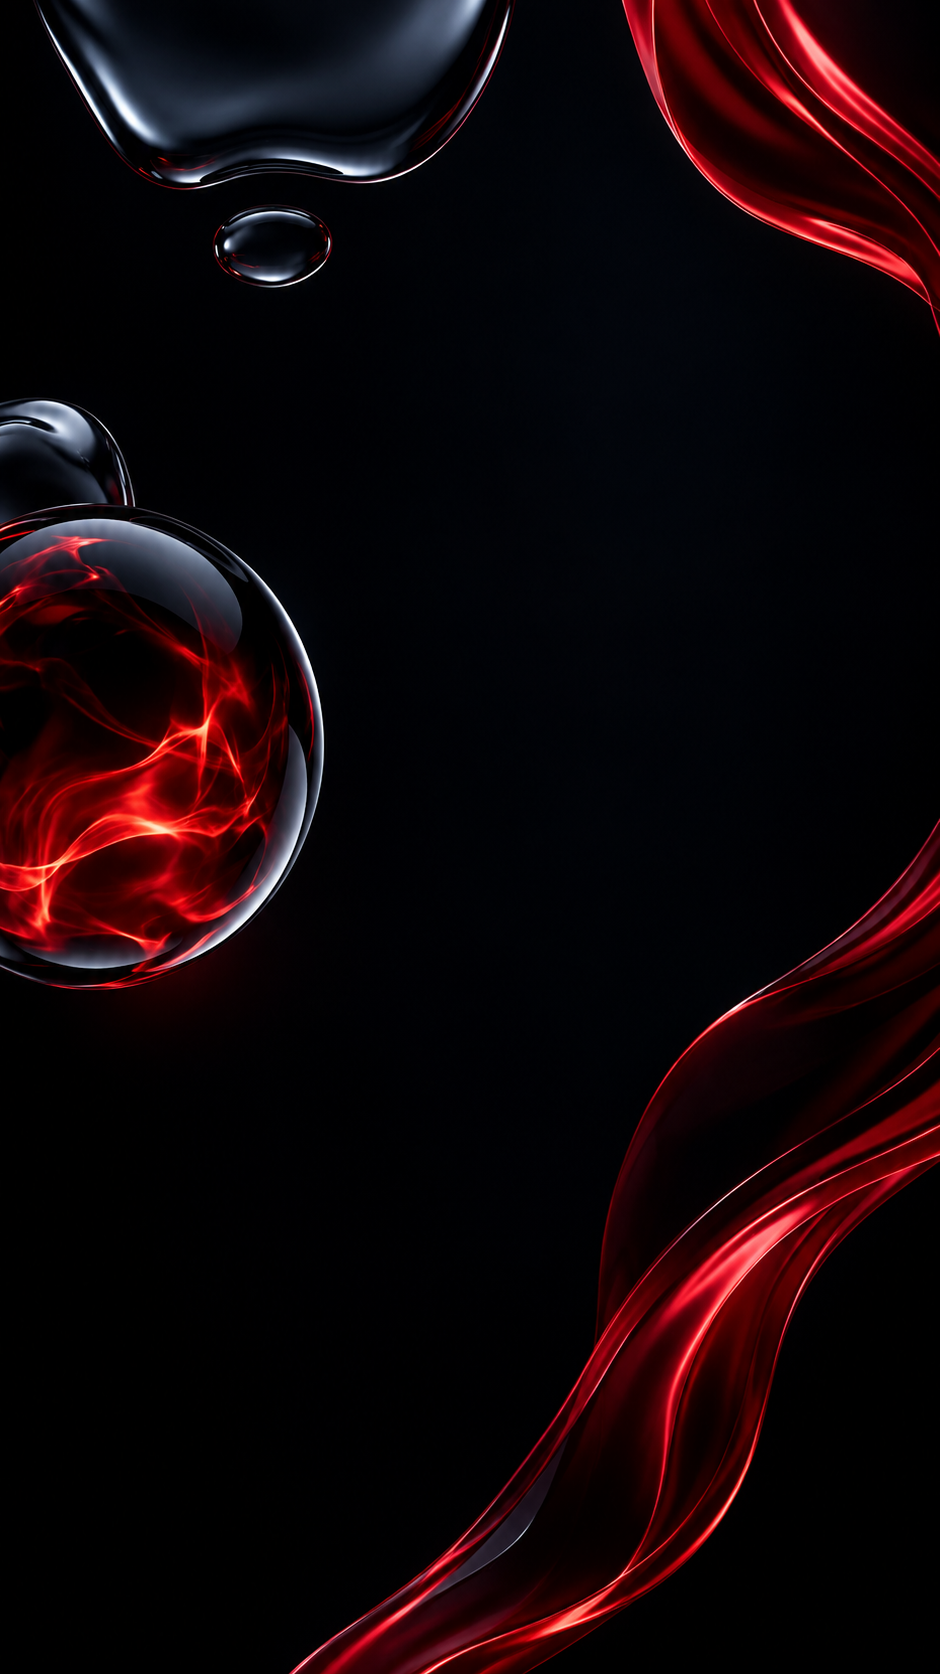
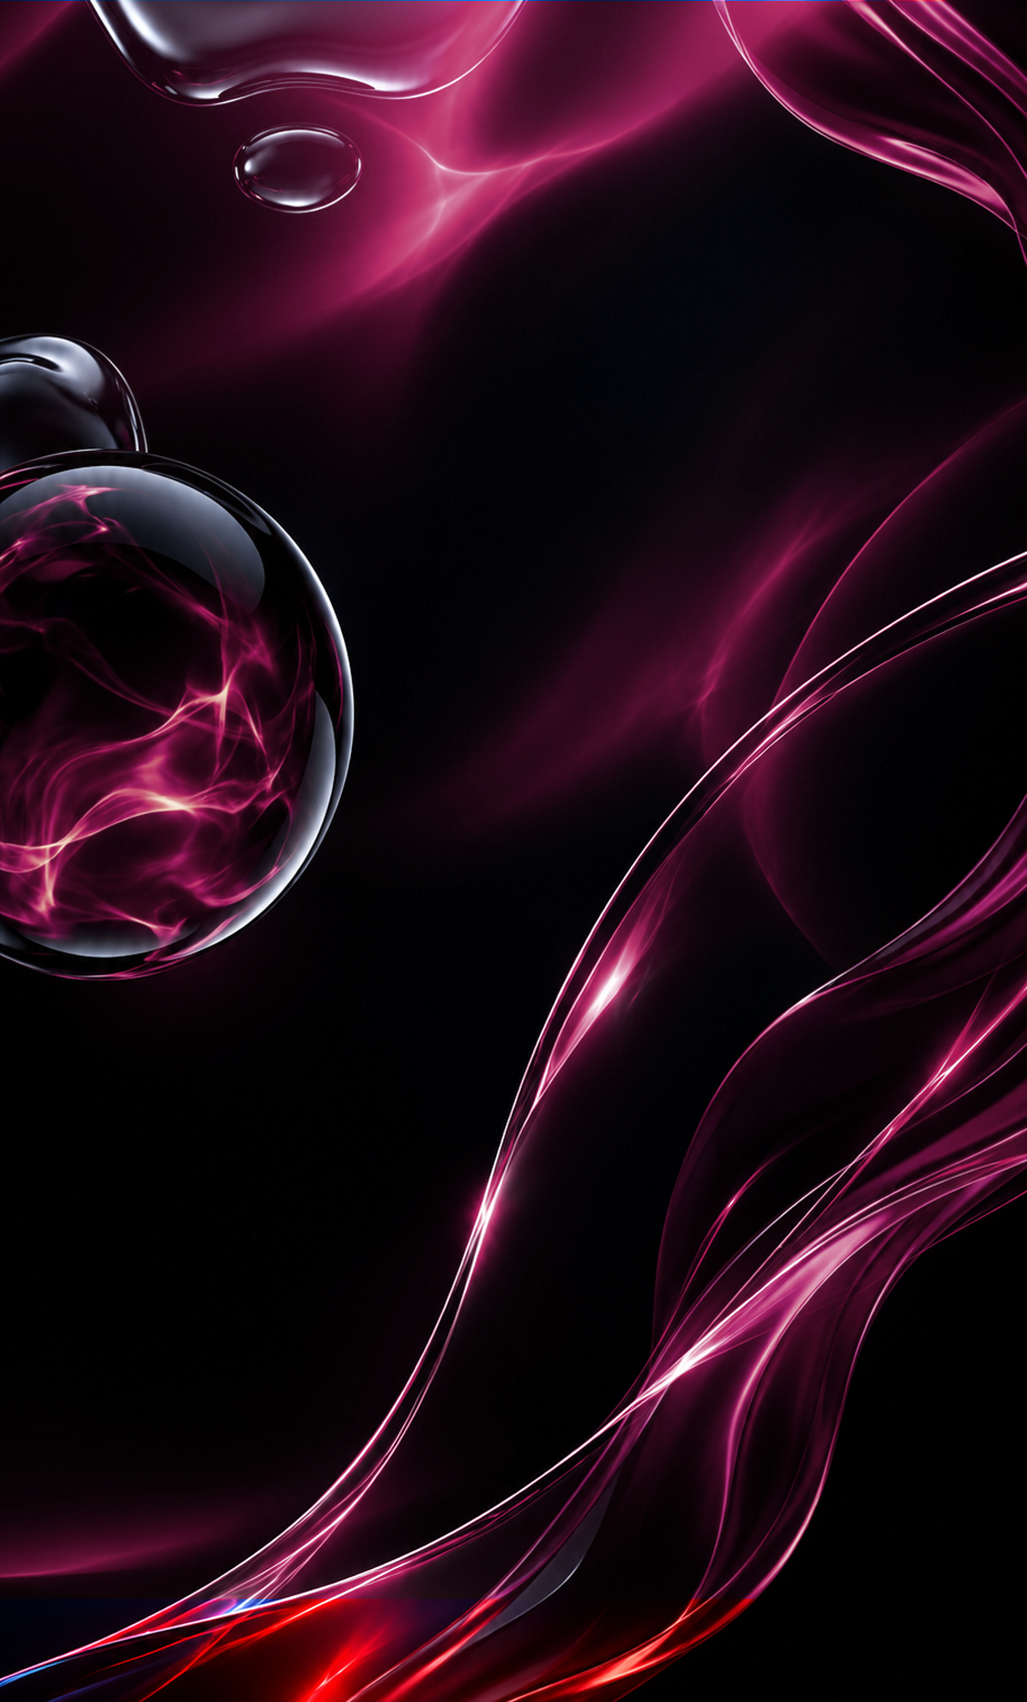
Add files via upload

diff --git a/about.html b/about.html
@@ -169,7 +169,7 @@
       width: 48vw;
       height: 48vw;
       border-radius: 50%;
-      background: radial-gradient(circle, rgba(193, 18, 31, 0.16) 0%, rgba(20, 36, 64, 0.22) 50%, transparent 72%);
+      background: radial-gradient(circle, rgba(193, 18, 30, 0.116) 0%, rgba(20, 36, 64, 0.103) 50%, transparent 72%);
       filter: blur(85px);
       animation: ambientBreathe 11s ease-in-out infinite alternate-reverse;
       pointer-events: none;
@@ -186,15 +186,15 @@
     .liquid-glass-window {
       position: relative;
       background: linear-gradient(145deg, rgba(255, 255, 255, 0.065) 0%, rgba(255, 255, 255, 0.015) 45%, rgba(12, 9, 20, 0.72) 100%);
-      backdrop-filter: blur(28px) saturate(190%) contrast(102%);
+      backdrop-filter: blur(18px) saturate(190%) contrast(102%);
       -webkit-backdrop-filter: blur(28px) saturate(190%) contrast(102%);
       border: 1px solid rgba(255, 255, 255, 0.13);
       border-radius: 22px;
       overflow: hidden;
       box-shadow: 
-        inset 0 1px 1.5px rgba(255, 255, 255, 0.5),
+        inset 0 1px 1.5px rgba(255, 255, 255, 0.315),
         inset 0 -1px 1px rgba(255, 255, 255, 0.04),
-        0 24px 60px -12px rgba(0, 0, 0, 0.8),
+        0 24px 60px -12px rgba(0, 0, 0, 0.452),
         0 0 30px rgba(193, 18, 31, 0.06);
       display: flex;
       flex-direction: column;
@@ -209,13 +209,13 @@
       left: 8%;
       right: 8%;
       height: 1px;
-      background: linear-gradient(90deg, transparent, rgba(255, 255, 255, 0.8), transparent);
+      background: linear-gradient(90deg, transparent, rgba(255, 255, 255, 0.175), transparent);
       z-index: 3;
       pointer-events: none;
     }
 
     .liquid-glass-window:hover {
-      border-color: rgba(255, 255, 255, 0.28);
+      border-color: rgba(255, 255, 255, 0.247);
       box-shadow: 
         inset 0 1.5px 2px rgba(255, 255, 255, 0.65),
         0 30px 75px -15px rgba(0, 0, 0, 0.9),
@@ -663,7 +663,7 @@
         border-bottom: 1px solid rgba(255, 255, 255, 0.06);
         box-shadow: 0 4px 16px rgba(0, 0, 0, 0.5);
         mask-image: linear-gradient(to right, black calc(100% - 24px), transparent 100%);
-        -webkit-mask-image: linear-gradient(to right, black calc(100% - 24px), transparent 100%);
+        -webkit-mask-image: linear-gradient(to right, black calc(100% - 28px), transparent 100%);
       }
 
       .chapter-subbar-inner {
@@ -1943,7 +1943,7 @@
     .creed-card {
       background: linear-gradient(135deg, rgba(255, 255, 255, 0.06) 0%, rgba(255, 255, 255, 0.015) 50%, rgba(16, 12, 24, 0.5) 100%);
       backdrop-filter: blur(18px);
-      -webkit-backdrop-filter: blur(18px);
+      -webkit-backdrop-filter: blur(12px);
       border: 1px solid rgba(255, 255, 255, 0.12);
       border-radius: 16px;
       padding: 22px;
@@ -2803,14 +2803,14 @@
     .final-cta-card {
       border-radius: 26px;
       background: linear-gradient(145deg,
-        rgba(255, 255, 255, 0.08) 0%,
+        rgba(255, 255, 255, 0.017) 0%,
         rgba(255, 255, 255, 0.02) 38%,
-        rgba(8, 11, 20, 0.70) 100%);
+        rgba(8, 11, 20, 0.459) 100%);
       border: 1px solid rgba(255, 255, 255, 0.18);
-      backdrop-filter: blur(32px) saturate(180%) brightness(1.06);
-      -webkit-backdrop-filter: blur(32px) saturate(180%) brightness(1.06);
+      backdrop-filter: blur(32px) saturate(180%) brightness(0.6);
+      -webkit-backdrop-filter: blur(32px) saturate(180%) brightness(0.6);
       box-shadow:
-        inset 0 1.5px 2px rgba(255, 255, 255, 0.65),
+        inset 0 1.5px 2px rgba(255, 255, 255, 0.38),
         inset 0 -1px 1px rgba(255, 255, 255, 0.06),
         0 25px 70px rgba(0, 0, 0, 0.82),
         0 0 35px rgba(193, 18, 31, 0.10);
@@ -4447,7 +4447,7 @@
     <div class="footer-container">
       <div class="footer-brand-col">
         <div class="brand-logo-wrap">
-          <img src="logo.png" alt="Abdullah Psychotic" style="height: 38px;">
+          <img src="logo0.webp" alt="Abdullah Psychotic" style="height: 38px;">
         </div>
         <p>
           Defining contemporary dark luxury streetwear with architectural silhouettes, heavyweight craftsmanship, and an unyielding philosophy of identity.
